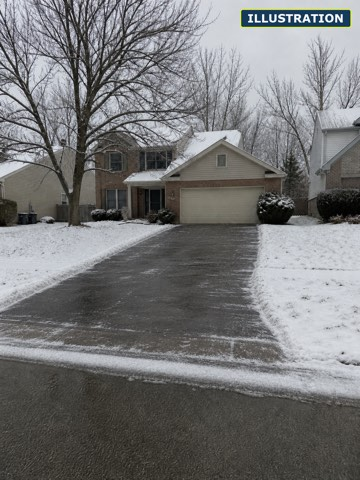
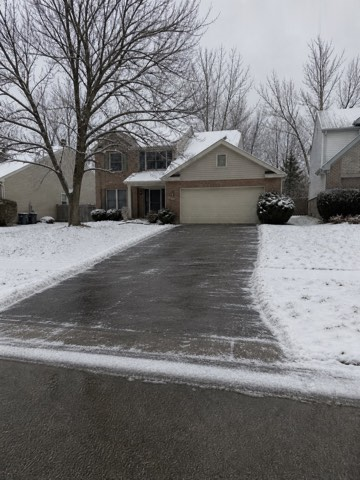
Remove the ILLUSTRATION badge stamped into the snow images
Removed at the owner's direction. The badge was also rendering badly --
it collided with the AFTER tag on the slider and got clipped mid-word.

Adds build/debadge.py, which finds the badge by its yellow rule and
rebuilds each column inside the box by interpolating vertically between
clean pixels above and below. Vertical rather than horizontal so branches
and the light pole stay continuous instead of smearing sideways. Re-encodes
all three sizes from the repaired master.

The disclosure is not gone, only moved off the pixels: each slider caption
still leads with "Illustration" and states "Illustration, not a
photograph", and the section copy still reads "Every photograph here is
our own work on a real property. The winter illustrations are marked as
such." That sentence stays true.

Worth knowing: an image saved or scraped on its own now carries no marker,
which is what the baked-in badge existed to prevent.

Changed region(s): [[0.6417, 0.0, 0.9778, 0.0625]]

diff --git a/build/debadge.py b/build/debadge.py
@@ -1,0 +1,81 @@
+#!/usr/bin/env python3
+"""Remove the baked-in ILLUSTRATION badge from the snow images.
+
+The badge was stamped into the pixels so it would survive being saved or
+scraped. It is being removed at the owner's direction; the disclosure still
+runs in the caption under each slider ("Illustration, not a photograph") and
+in the section copy, so the images are not presented as real photographs.
+
+The badge sits on flat overcast sky. Each column inside the badge box is
+rebuilt by interpolating vertically between clean pixels above and below it,
+which keeps any vertical structure (a branch, a pole) continuous instead of
+smearing it sideways.
+"""
+from PIL import Image
+import os, subprocess, sys
+
+D = "site/assets/img/snow-removal"
+SLUGS = ["snow-clearing-before", "snow-clearing-after",
+         "snow-parking-lot-before", "snow-parking-lot-after"]
+MASTER = "-1280.jpg"
+
+
+def badge_box(im):
+    """Locate the badge by its yellow rule, with padding."""
+    w, h = im.size
+    px = im.load()
+    ys, xs = [], []
+    for y in range(0, int(h * 0.25)):
+        for x in range(0, w):
+            r, g, b = px[x, y]
+            if r > 200 and g > 200 and b < 120:
+                ys.append(y); xs.append(x)
+    if not ys:
+        return None
+    pad = 10
+    return (max(0, min(xs) - pad), max(0, min(ys) - pad),
+            min(w, max(xs) + pad), min(h, max(ys) + pad))
+
+
+def paint_out(im, box):
+    x0, y0, x1, y1 = box
+    px = im.load()
+    top = max(0, y0 - 3)
+    bot = min(im.size[1] - 1, y1 + 3)
+    span = bot - top
+    for x in range(x0, x1):
+        a = px[x, top]
+        b = px[x, bot]
+        for y in range(y0, y1):
+            t = (y - top) / span
+            px[x, y] = (round(a[0] + (b[0] - a[0]) * t),
+                        round(a[1] + (b[1] - a[1]) * t),
+                        round(a[2] + (b[2] - a[2]) * t))
+    return im
+
+
+def main():
+    for slug in SLUGS:
+        src = os.path.join(D, slug + MASTER)
+        if not os.path.exists(src):
+            print("  missing", src); continue
+        im = Image.open(src).convert("RGB")
+        box = badge_box(im)
+        if not box:
+            print(f"  {slug}: no badge found, skipping"); continue
+        im = paint_out(im, box)
+        tmp = "/tmp/_debadge.png"
+        im.save(tmp)
+        for w in (480, 800, 1280):
+            q = 66 if w == 480 else 62
+            subprocess.run(["sips", "-s", "format", "jpeg", "-s", "formatOptions", str(q),
+                            "-Z", str(w), tmp, "--out", os.path.join(D, f"{slug}-{w}.jpg")],
+                           capture_output=True)
+            subprocess.run(["cwebp", "-quiet", "-q", "70", "-resize", str(w), "0",
+                            tmp, "-o", os.path.join(D, f"{slug}-{w}.webp")],
+                           capture_output=True)
+        print(f"  {slug}: badge removed at {box}, re-encoded 480/800/1280")
+
+
+if __name__ == "__main__":
+    main()
